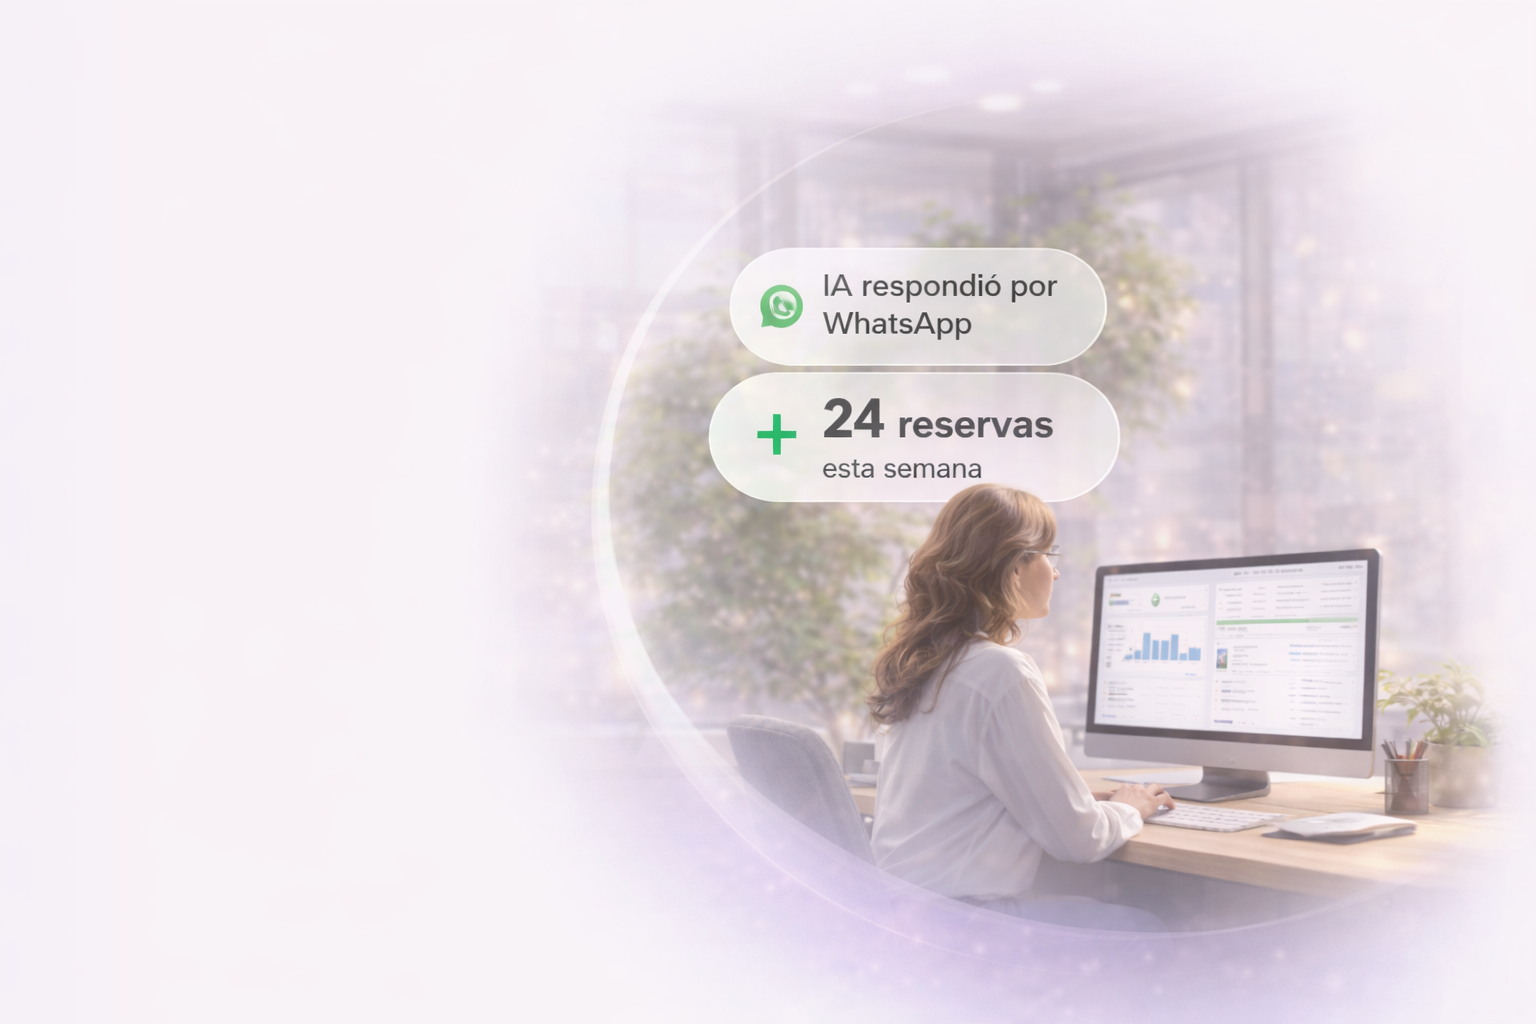
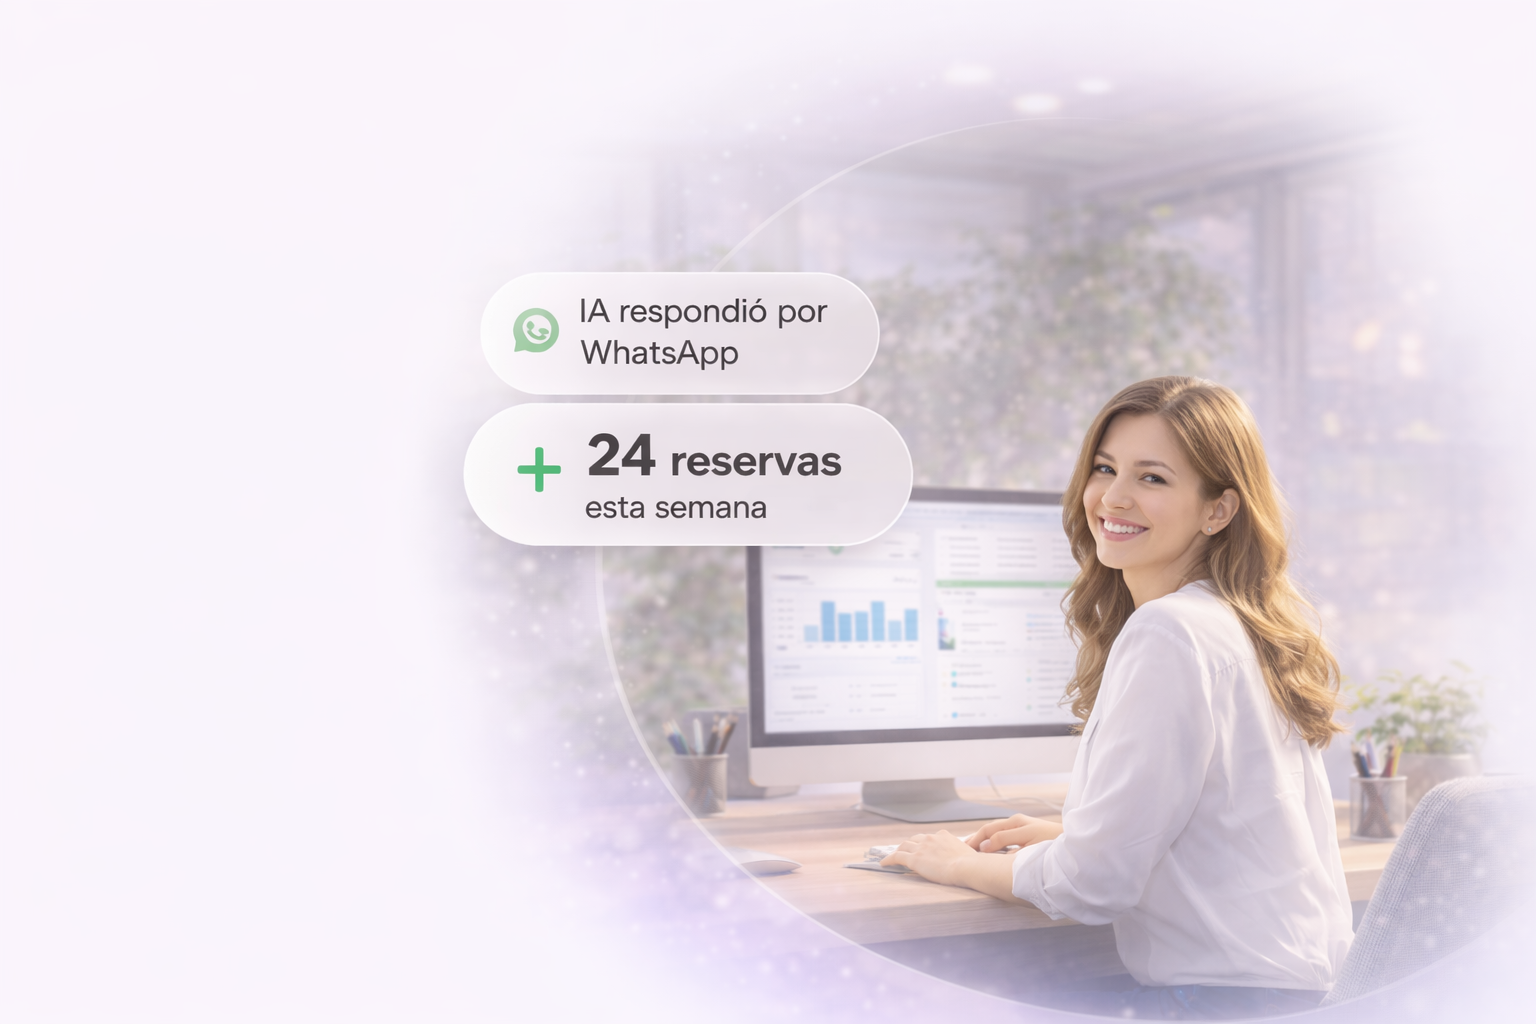
Refina landing con nueva hero y formulario

Changed region(s): [[0.2812, 0.1562, 1.0, 1.0]]

diff --git a/app/page.tsx b/app/page.tsx
@@ -2,12 +2,7 @@
 
 import Link from "next/link";
 import { motion } from "framer-motion";
-import {
-  CalendarDays,
-  Rocket,
-  Users,
-  BellRing,
-} from "lucide-react";
+import { CalendarDays, Rocket, Users, BellRing, Star } from "lucide-react";
 
 export default function OrbyxLandingPage() {
   const quickFeatures = [
@@ -23,14 +18,26 @@ export default function OrbyxLandingPage() {
     "Más movimiento en tu agenda",
   ];
 
+  const businessTypes = [
+    "Barbería",
+    "Peluquería",
+    "Centro de estética",
+    "Clínica",
+    "Consulta médica",
+    "Kinesiología / Fisioterapia",
+    "Spa",
+    "Salón de belleza",
+    "Entrenamiento / Fitness",
+    "Otro",
+  ];
+
+  const teamSizes = ["1", "2 a 3", "4 a 10", "11 a 20", "20+"];
+
   return (
     <main className="min-h-screen bg-[#f4eff5] text-slate-900">
       <section className="relative overflow-hidden">
-
-        {/* FONDO SUAVE */}
         <div className="absolute inset-0 bg-[linear-gradient(135deg,#f8f4f7_0%,#f3eef4_36%,#eee8f1_70%,#ebe6ef_100%)]" />
 
-        {/* 👇 IMAGEN CONTROLADA (ESTA ES LA CLAVE) */}
         <div className="pointer-events-none absolute right-0 top-0 h-full w-[45%] hidden lg:block">
           <div
             className="h-full w-full bg-contain bg-no-repeat"
@@ -39,17 +46,12 @@ export default function OrbyxLandingPage() {
               backgroundPosition: "right center",
             }}
           />
-
-          {/* Degradado para mezclar */}
-          <div className="absolute inset-0 bg-[linear-gradient(90deg,#f4eff5_0%,rgba(244,239,245,0.6)_35%,rgba(244,239,245,0.2)_60%,transparent_85%)]" />
+          <div className="absolute inset-0 bg-[linear-gradient(90deg,#f4eff5_0%,rgba(244,239,245,0.60)_35%,rgba(244,239,245,0.20)_60%,transparent_85%)]" />
         </div>
 
         <div className="relative mx-auto max-w-7xl px-5 py-10 lg:px-8 lg:py-16">
           <div className="grid items-center gap-16 lg:grid-cols-[1.1fr_0.9fr]">
-
-            {/* IZQUIERDA */}
             <div className="relative z-10">
-
               <div className="inline-flex items-center gap-3">
                 <div className="rounded-2xl bg-white px-3 py-2 shadow">
                   <img
@@ -73,18 +75,14 @@ export default function OrbyxLandingPage() {
                 <br />
                 reservas con IA
                 <br />
-                <span className="text-sky-500">
-                  y mantén tu agenda
-                </span>
+                <span className="text-sky-500">y mantén tu agenda</span>
                 <br />
-                <span className="text-sky-500">
-                  más activa
-                </span>
+                <span className="text-sky-500">más activa</span>
               </motion.h1>
 
-              <p className="mt-6 max-w-2xl text-lg text-slate-700">
-                Deja de coordinar reservas por WhatsApp manualmente.
-                Orbyx responde, propone horarios y agenda automáticamente.
+              <p className="mt-6 max-w-2xl text-lg leading-8 text-slate-700">
+                Deja de coordinar reservas por WhatsApp manualmente. Orbyx
+                responde, propone horarios y agenda automáticamente.
               </p>
 
               <div className="mt-6 flex flex-wrap gap-3">
@@ -112,57 +110,98 @@ export default function OrbyxLandingPage() {
                   );
                 })}
               </div>
+
+              <div className="mt-8 inline-flex items-center gap-2 rounded-full bg-white px-4 py-3 shadow">
+                <div className="inline-flex items-center gap-1 text-amber-400">
+                  <Star className="h-4 w-4 fill-current" />
+                  <Star className="h-4 w-4 fill-current" />
+                  <Star className="h-4 w-4 fill-current" />
+                  <Star className="h-4 w-4 fill-current" />
+                  <Star className="h-4 w-4 fill-current" />
+                </div>
+                <p className="text-sm font-medium text-slate-700">
+                  +8.000 negocios nos recomiendan
+                </p>
+              </div>
             </div>
 
-            {/* DERECHA */}
             <div className="relative z-10 flex justify-end">
-
-              <div className="w-full max-w-[420px] rounded-3xl bg-white p-6 shadow-xl">
-
-                <h2 className="text-2xl font-semibold">
+              <div className="w-full max-w-[440px] rounded-[28px] bg-white p-6 shadow-[0_24px_70px_rgba(15,23,42,0.10)] sm:p-7">
+                <h2 className="text-3xl font-semibold text-slate-900">
                   Empieza gratis
                 </h2>
 
-                <p className="mt-2 text-sm text-slate-600">
-                  Configura tu agenda en minutos
+                <p className="mt-2 text-sm leading-6 text-slate-600">
+                  Configura tu agenda en minutos y comienza con una experiencia
+                  más clara y profesional.
                 </p>
 
                 <form className="mt-6 space-y-3">
+                  <div className="grid gap-3 sm:grid-cols-2">
+                    <select className="h-12 w-full rounded-xl border border-slate-200 bg-white px-3 text-sm text-slate-700 outline-none transition focus:border-sky-400 focus:ring-4 focus:ring-sky-100">
+                      <option value="">Tipo de negocio</option>
+                      {businessTypes.map((item) => (
+                        <option key={item} value={item}>
+                          {item}
+                        </option>
+                      ))}
+                    </select>
+
+                    <select className="h-12 w-full rounded-xl border border-slate-200 bg-white px-3 text-sm text-slate-700 outline-none transition focus:border-sky-400 focus:ring-4 focus:ring-sky-100">
+                      <option value="">Profesionales</option>
+                      {teamSizes.map((item) => (
+                        <option key={item} value={item}>
+                          {item}
+                        </option>
+                      ))}
+                    </select>
+                  </div>
 
                   <input
                     placeholder="Nombre y apellido"
-                    className="h-12 w-full rounded-xl border px-3"
+                    className="h-12 w-full rounded-xl border border-slate-200 px-3 text-sm outline-none transition focus:border-sky-400 focus:ring-4 focus:ring-sky-100"
                   />
 
                   <input
                     placeholder="Email"
-                    className="h-12 w-full rounded-xl border px-3"
+                    className="h-12 w-full rounded-xl border border-slate-200 px-3 text-sm outline-none transition focus:border-sky-400 focus:ring-4 focus:ring-sky-100"
                   />
 
                   <input
                     placeholder="Teléfono"
-                    className="h-12 w-full rounded-xl border px-3"
+                    className="h-12 w-full rounded-xl border border-slate-200 px-3 text-sm outline-none transition focus:border-sky-400 focus:ring-4 focus:ring-sky-100"
                   />
 
-                  <button
-                    className="mt-2 h-12 w-full rounded-xl bg-blue-600 text-white font-semibold"
-                  >
+                  <button className="mt-2 h-12 w-full rounded-xl bg-blue-600 text-sm font-semibold text-white transition hover:bg-blue-700">
                     Crear mi agenda
                   </button>
 
-                  {/* BOTÓN DESTACADO */}
                   <Link
                     href="/planes"
-                    className="flex h-12 w-full items-center justify-center rounded-xl bg-gradient-to-r from-pink-500 to-purple-500 text-white font-semibold"
+                    className="flex h-12 w-full items-center justify-center rounded-xl border border-fuchsia-200 bg-[linear-gradient(135deg,#ffffff_0%,#fdf2f8_100%)] text-sm font-semibold text-fuchsia-700 shadow-[0_0_0_1px_rgba(244,114,182,0.08),0_10px_24px_rgba(236,72,153,0.10)] transition hover:-translate-y-0.5 hover:border-fuchsia-300 hover:shadow-[0_0_0_1px_rgba(244,114,182,0.14),0_14px_30px_rgba(236,72,153,0.14)]"
                   >
                     Ver planes
                   </Link>
-
                 </form>
+
+                <p className="mt-4 text-center text-xs leading-6 text-slate-500">
+                  Empieza gratis. Luego puedes elegir el plan ideal para tu
+                  negocio.
+                </p>
+
+                <div className="mt-5 flex items-center justify-center gap-1 text-amber-400">
+                  <Star className="h-4 w-4 fill-current" />
+                  <Star className="h-4 w-4 fill-current" />
+                  <Star className="h-4 w-4 fill-current" />
+                  <Star className="h-4 w-4 fill-current" />
+                  <Star className="h-4 w-4 fill-current" />
+                </div>
+
+                <p className="mt-2 text-center text-sm font-medium text-slate-600">
+                  +8.000 negocios felices nos recomiendan
+                </p>
               </div>
-
             </div>
-
           </div>
         </div>
       </section>
